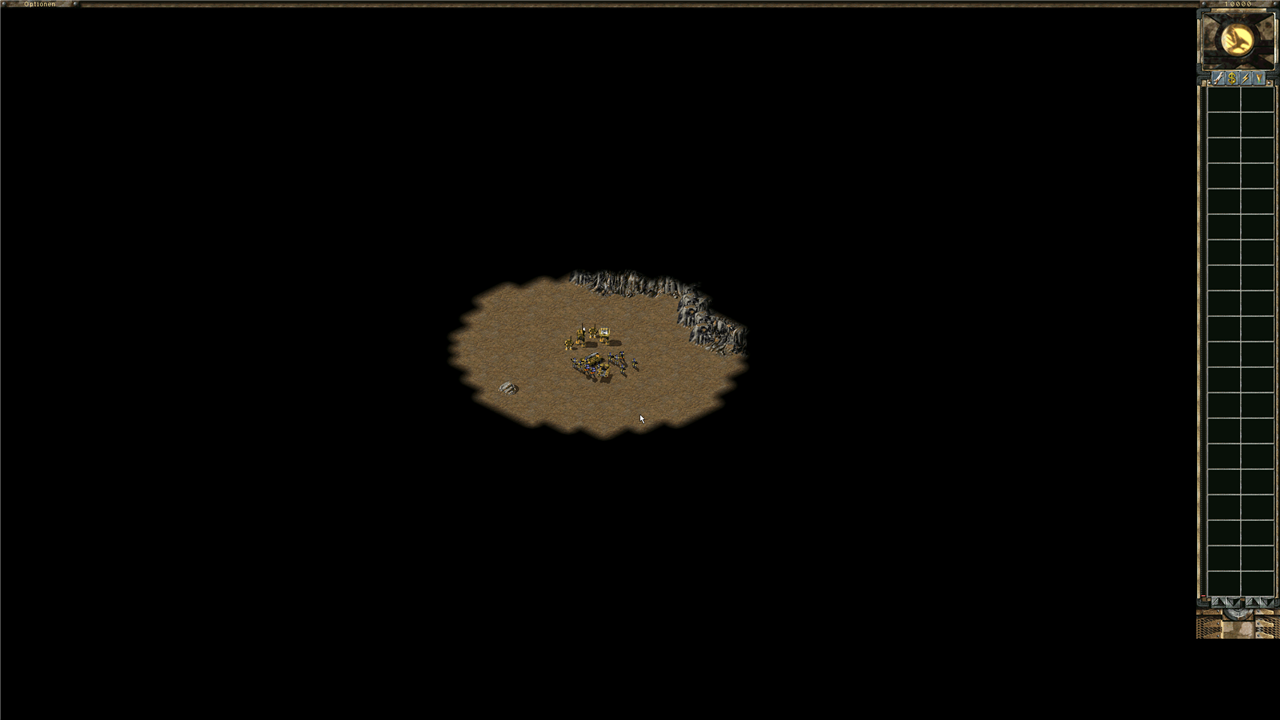
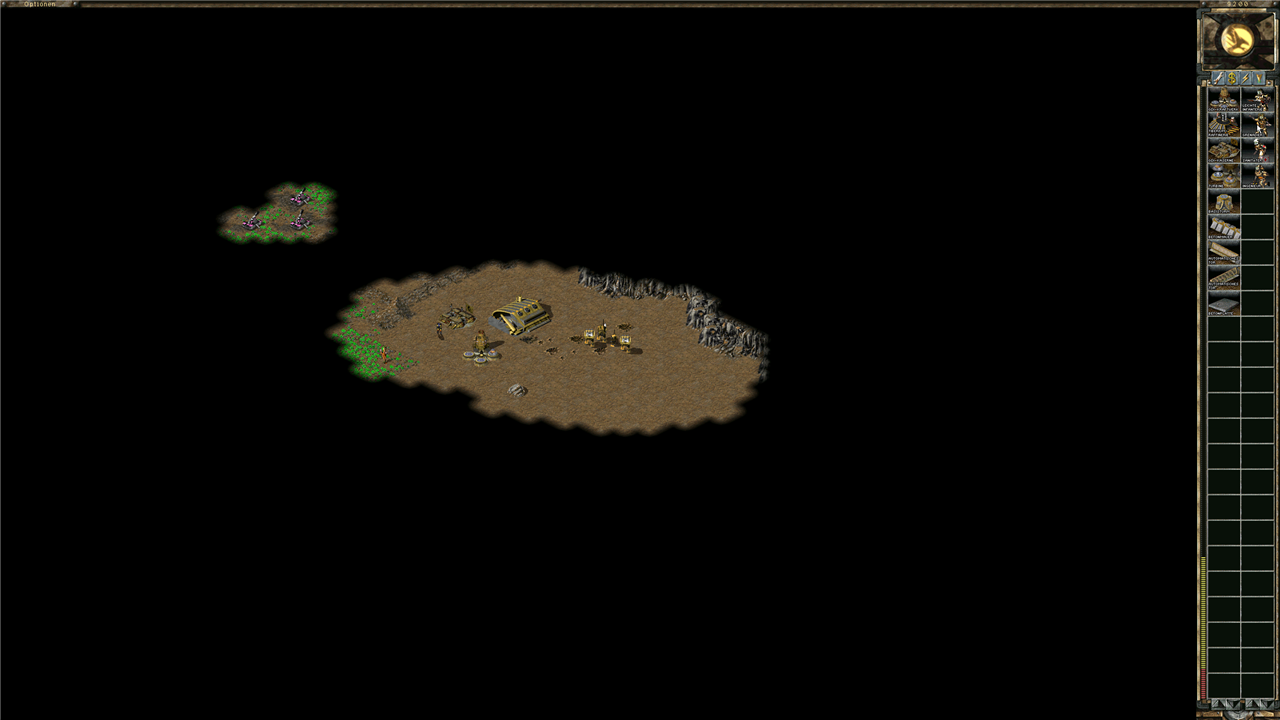
1.1.0: full-height sidebar, game speed option, mission timing fixed
- Sidebar button array moved to new memory with 40 rows per column
  (11 address and 7 stride patches); the sidebar now fills the screen.
- New option Game speed (60/30/20 fps or unlimited); the previous
  value is written back to SUN.INI when the game ends.
- Missions: repeating triggers end in 0, waves and time limits use game
  time, survival/defense run on the countdown, win/lose on event 11.
- Docs: findings on the sidebar relocation and trigger timing.

diff --git a/src/TSMap.cs b/src/TSMap.cs
@@ -521,7 +521,9 @@ namespace TSExt
         public string AddTriggerFlags(string name, string house, int repeat, string[] events, string[] actions, bool disabled, bool easy, bool normal, bool hard)
         {
             string id = NewId();
-            trig.Set(id, string.Format("{0},<none>,{1},{2},{3},{4},{5},{6}", house, name, disabled ? 1 : 0, easy ? 1 : 0, normal ? 1 : 0, hard ? 1 : 0, repeat == 2 ? 1 : 0));
+            // The last field stays 0 like in every official map: repetition comes from the tag (2). A 1 here made the
+            // game fire a repeating trigger again and again (checked in the game: dozens of attack waves in two minutes).
+            trig.Set(id, string.Format("{0},<none>,{1},{2},{3},{4},{5},0", house, name, disabled ? 1 : 0, easy ? 1 : 0, normal ? 1 : 0, hard ? 1 : 0));
             ev.Set(id, events.Length + "," + string.Join(",", events));
             act.Set(id, actions.Length + "," + string.Join(",", actions));
             string tagId = NewId();

diff --git a/dev/ghidra_scripts/TSRangeRefs.java b/dev/ghidra_scripts/TSRangeRefs.java
@@ -36,8 +36,9 @@ public class TSRangeRefs extends GhidraScript {
             for (Map.Entry<Address, List<String>> e : byTarget.entrySet()) {
                 pw.printf("%s (%d refs)%n", e.getKey(), e.getValue().size());
                 int n = 0;
-                for (String s : e.getValue()) { if (n++ < 6) pw.println("    " + s); }
+                for (String s : e.getValue()) { if (n++ < 400) pw.println("    " + s); }
             }
         }
     }
 }
+

diff --git a/README.de.md b/README.de.md
@@ -1,10 +1,10 @@
-# Tiberian Sun – Erweiterungen
+# Tiberian Sun – Erweiterungen
 
 *[English version](README.md)*
 
 Ein Fan-Projekt für **Command & Conquer Tiberian Sun und Feuersturm** (Steam, Game.exe 2.03 TUC): riesige
 Zufallswelten, scharfe Grafik in der nativen Auflösung deines Bildschirms, 15 neue Missionen in zwei Kampagnen und
-fünf Herausforderungen sowie 15 Optionen für die Spielregeln, alles in einem Startfenster.
+fünf Herausforderungen sowie 16 Optionen für Regeln, Welt und Anzeige, alles in einem Startfenster.
 
 Keine Originaldatei des Spiels wird verändert. Die Erweiterungen arbeiten über Dateien, die das Spiel zusätzlich zu
 seinen eigenen liest (ein zusätzliches Archiv und neue Missionsdateien), und über den Arbeitsspeicher des laufenden
@@ -12,7 +12,7 @@ Spiels. Wenn das Spiel endet, ist alles wieder wie vorher; ein Start über Steam
 Einzelspiel.
 
 <p align="center">
-  <img src="docs/images/giant-random-map.png" alt="Eine Zufallskarte mit 225 × 225 Feldern in 2560 × 1440" width="80%">
+  <img src="docs/images/giant-random-map.png" alt="Eine riesige Zufallskarte in 2560 × 1440 mit der Seitenleiste über die ganze Höhe" width="80%">
 </p>
 
 ## Was es kann
@@ -20,7 +20,8 @@ Einzelspiel.
 | Funktion | Was du bekommst |
 |---|---|
 | **Riesige Zufallswelten** | Der eingebaute Zufallskarten-Generator des Spiels macht Karten bis **235 × 235 Felder** (Original: höchstens 175 × 175, und das nur mit 8 Spielern; mit 4 Spielern 128 × 128) – mit Flüssen, Klippen, Tiberium, Wäldern und Ruinen. |
-| **Scharfe Grafik** | Das Spiel läuft in der nativen Auflösung deines Bildschirms (z. B. 2560 × 1440) – keine verzerrten, unscharfen Pixel mehr, und du siehst viel mehr vom Schlachtfeld. Möglich macht das ein Fix im Code der Seitenleiste (siehe unten). |
+| **Scharfe Grafik** | Das Spiel läuft in der nativen Auflösung deines Bildschirms (z. B. 2560 × 1440) – keine verzerrten, unscharfen Pixel mehr, und du siehst viel mehr vom Schlachtfeld. Die Seitenleiste reicht über die ganze Bildschirmhöhe, mit bis zu 40 Bauzeilen (Original: 20 – mehr Zeilen liessen das Spiel abstürzen). |
+| **Spieltempo** | 60, 30 oder 20 Bilder pro Sekunde, oder unbegrenzt. Auf „unbegrenzt“ läuft die Steam-Version mit 120 Bildern/s – achtmal so schnell wie das klassische Tempo. |
 | **Neue Kampagnen** | *Operation Morgenröte* (GDI, 5 Missionen) und *Kanes Erbe* (Nod, 5 Missionen): Eroberung, Überleben, Kommando, Verteidigung und Wirtschaft, mit Gegnerbasen, die wie die Gefechts-KI bauen und angreifen, und Angriffswellen, die mit der Zeit und dem Schwierigkeitsgrad wachsen. |
 | **Herausforderungen** | Die Flut (30 Min überleben), Alle gegen einen (5 Gegner), Blitzkrieg (25 Min), Wirtschaftswunder (100 000 Credits), Eiswüste (Riesenkarte, 6 Gegner). |
 | **Regel-Optionen** | Baukosten, Bautempo, Tiberium-Wert und -Wachstum, Sammler-Ladung, Kraftwerksleistung, Beförderungen, Superwaffen-Ladezeit, Lebenspunkte, erweitertes Arsenal (Umagon, Chamäleon-Spion, Helden bis 3-mal), starke oder brutale Computergegner, Meteoriten und Viszeroiden, Nebel des Krieges. |
@@ -66,10 +67,14 @@ Messungen im Spiel stehen in [docs/FINDINGS.md](docs/FINDINGS.md).
 - **Zufallskarten-Grösse** – der Generator berechnet die Kartengrösse aus vier Tabellen (je 7 Einträge, für 2–8
   Spieler). Das Werkzeug schreibt grössere Werte in diese Tabellen im Speicher des laufenden Spiels (vorher geprüft:
   nur wenn dort die Originalwerte stehen).
-- **Native Auflösung** – die Seitenleiste hat Platz für 2 × 20 Bau-Schaltflächen. Ab etwa 1214 Pixeln Bildschirmhöhe
-  rechnet das Spiel mit mehr Zeilen, schreibt über das Feld hinaus und stürzt beim Start eines Gefechts ab. Das
-  Werkzeug hängt sich an die zwei Stellen, die die Höhe der Seitenleiste setzen, und begrenzt sie auf 20 Zeilen.
-  Dann funktioniert jede Auflösung.
+- **Native Auflösung und Seitenleiste über die ganze Höhe** – die Seitenleiste hat Platz für 2 × 20
+  Bau-Schaltflächen. Ab etwa 1214 Pixeln Bildschirmhöhe rechnet das Spiel mit mehr Zeilen, schreibt über das Feld
+  hinaus und stürzt beim Start eines Gefechts ab. Das Werkzeug verlegt das Feld in neuen Speicher mit Platz für
+  2 × 40 Zeilen: Es schreibt die 11 Befehle um, die seine Adresse enthalten, verdoppelt den Spaltenabstand an den
+  7 Stellen, die „Zeile + Spalte × 20“ rechnen, und begrenzt die Höhe der Seitenleiste auf 40 Zeilen. Dann
+  funktioniert jede Auflösung bis 2160 Pixel Höhe, mit einer Seitenleiste von oben bis unten.
+- **Zeiten in Missionen** – Wellen, Countdowns und Zeitlimits laufen in Spielzeit (Spielbilder ÷ 15), wie in den
+  Originalmissionen, und folgen damit dem Spieltempo.
 - **Regel-Optionen** – eine geänderte Kopie deiner eigenen `FIRESTRM.INI` kommt in das Archiv `EXPAND99.MIX`. Das
   Spiel sucht in Archiven vor losen Dateien und lädt `EXPAND99` vor `EXPAND01` von Feuersturm, also gewinnt die
   Kopie. Das Archiv wird entfernt, wenn das Spiel endet.
@@ -88,7 +93,8 @@ gelesen.
   und Kampagnen funktionieren trotzdem.
 - Die Regel-Optionen gelten für Feuersturm-Spiele: Gefechte im Feuersturm-Modus, Feuersturm-Missionen und die neuen
   Kampagnen.
-- Bei einem sehr hohen Bildschirm endet die Seitenleiste nach 20 Zeilen; der Bereich darunter bleibt schwarz.
+- Missionen zählen in Spielzeit: Bei 120 Bildern/s dauert ein „20-Minuten“-Countdown 2,5 echte Minuten. Für ein
+  ruhigeres Tempo unter *Spieltempo* 60 oder 30 Bilder/s wählen.
 - Riesenkarten brauchen mehr Rechenleistung; mit 8 Spielern auf 235 × 235 kann das Spiel gegen Ende langsamer werden.
 - Nur für das Einzelspiel. Online- und LAN-Spiele bleiben unberührt, wenn du das Spiel ohne dieses Werkzeug startest.
 

diff --git a/README.md b/README.md
@@ -1,17 +1,17 @@
-# Tiberian Sun – Extensions
+# Tiberian Sun – Extensions
 
 *[Deutsche Version](README.de.md)*
 
 A fan project for **Command & Conquer Tiberian Sun and Firestorm** (Steam, Game.exe 2.03 TUC): huge random worlds,
 sharp graphics in your screen's native resolution, 15 new missions in two campaigns and five challenges, and
-15 options for the rules of the game, all in one start window.
+16 options for rules, world and display, all in one start window.
 
 No original game file is changed. The extensions work through files the game reads in addition to its own (an extra
 archive and new mission files) and through the memory of the running game. When the game ends, everything is as
 before; a game started from Steam is always the original. Single player only.
 
 <p align="center">
-  <img src="docs/images/giant-random-map.png" alt="A 225 x 225 random map in 2560 x 1440" width="80%">
+  <img src="docs/images/giant-random-map.png" alt="A huge random map in 2560 x 1440 with the full-height sidebar" width="80%">
 </p>
 
 ## What it does
@@ -19,7 +19,8 @@ before; a game started from Steam is always the original. Single player only.
 | Feature | What you get |
 |---|---|
 | **Huge random worlds** | The game's own random map generator makes maps up to **235 × 235 cells** (original: at most 175 × 175, and only with 8 players; 128 × 128 with 4 players) – with rivers, cliffs, tiberium, forests and ruins. |
-| **Sharp graphics** | The game runs in your screen's native resolution (e.g. 2560 × 1440) – no more stretched, blurry pixels, and you see much more of the battlefield. A fix in the game's sidebar code makes this possible (see below). |
+| **Sharp graphics** | The game runs in your screen's native resolution (e.g. 2560 × 1440) – no more stretched, blurry pixels, and you see much more of the battlefield. The sidebar fills the whole screen height with up to 40 build rows (original: 20 – more rows crashed the game). |
+| **Game speed** | 60, 30 or 20 frames per second, or unlimited. On "unlimited" the Steam version runs at 120 frames/s – eight times the classic speed. |
 | **New campaigns** | *Operation Dawn* (GDI, 5 missions) and *Kane's Legacy* (Nod, 5 missions): conquest, survival, commando, defense and economy missions with enemy bases that build and attack like the skirmish AI, attack waves that grow with time and difficulty. |
 | **Challenges** | The Flood (survive 30 min), All Against One (5 enemies), Blitz (25 min), Economic Miracle (100,000 credits), Ice Desert (huge map, 6 enemies). |
 | **Rules options** | Build costs, build speed, tiberium value and growth, harvester load, power output, promotions, super weapon charge time, unit hit points, extended arsenal (Umagon, Chameleon spy, heroes up to 3 times), stronger or brutal computer opponents, meteorites and visceroids, fog of war. |
@@ -65,9 +66,13 @@ in-game measurements are in [docs/FINDINGS.md](docs/FINDINGS.md).
 - **Random map size** – the generator computes the map size from four tables (7 entries each, for 2–8 players).
   The tool writes larger values into these tables in the memory of the running game (checked first: only if the
   original values are there).
-- **Native resolution** – the sidebar has room for 2 × 20 build buttons. At more than about 1214 pixels screen height
-  the game computes more rows, overflows the array and crashes when a battle starts. The tool hooks the two places
-  that set the sidebar height and limits it to 20 rows. Then any resolution works.
+- **Native resolution and full-height sidebar** – the sidebar has room for 2 × 20 build buttons. At more than about
+  1214 pixels screen height the game computes more rows, overflows the array and crashes when a battle starts. The tool
+  moves the button array to new memory with room for 2 × 40 rows: it rewrites the 11 instructions that hold its
+  address, doubles the column stride in the 7 places that compute "row + column × 20", and limits the sidebar
+  height to 40 rows. Then any resolution up to 2160 pixels height works with a sidebar from top to bottom.
+- **Mission timing** – waves, countdowns and time limits use game time (game frames ÷ 15), like the original
+  missions, so they follow the game speed.
 - **Rules options** – a changed copy of your own `FIRESTRM.INI` goes into the archive `EXPAND99.MIX`. The game searches
   archives before loose files and loads `EXPAND99` before Firestorm's `EXPAND01`, so the copy wins. The archive is
   removed when the game ends.
@@ -83,7 +88,8 @@ Nothing of the game is in this repository – only code and documentation. The g
 - Only for the Steam version with `Game.exe` 2.03 TUC (SHA-256 `58CFDBA4…AE17DB3`). With another version the memory
   patches are skipped (the tool then stays at a resolution that works without them); options and campaigns still work.
 - The rules options apply to Firestorm games: skirmish in Firestorm mode, Firestorm missions and the new campaigns.
-- With a very tall screen, the sidebar ends after 20 rows; the area below it stays black.
+- Missions count in game time: at 120 frames/s a "20 minute" countdown takes 2.5 real minutes. Pick 60 or 30
+  frames/s under *Game speed* for a calmer pace.
 - Huge maps need more computing power; with 8 players on 235 × 235 the game can get slower late in the battle.
 - Single player only. Online and LAN games are not touched when you start the game without this tool.
 

diff --git a/docs/FINDINGS.md b/docs/FINDINGS.md
@@ -114,6 +114,40 @@ Firestorm mission.
   46 + 20 × 51 = 1066. Without the fix the highest safe screen is 148 + 1066 = 1214 pixels.
 - Checked: 2560 × 1440 skirmish on a 225 × 225 map and campaign missions run with the fix.
 
+### Full-height sidebar (1.1)
+
+- A byte scan of the whole code for addresses inside the array (0x80B950 … 0x80C170) finds exactly 12 places in
+  the sidebar code: the static initializer at 0x5F2294 (runs before any patch) and 11 runtime places –
+  displacements at 0x5F407C, 0x5F4143, 0x5F43DC, 0x5F452A, 0x5F454A, 0x5F4615 (entry base, `LEA r,[idx*4+0x80B950]`),
+  0x5F63BD (`LEA EBP,[ESI+0x80B950]`) and 0x5F63D6 / 0x5F63DC / 0x5F63EF / 0x5F63FF (fields +0x10, +0xC, +0x18, +0x14).
+  0x5F45FE … 0x5F4619 is code Ghidra did not mark as a function. Other hits elsewhere are unaligned byte coincidences.
+- The index is `row + column × 20`, computed as `LEA r1,[col+col*4]; LEA r2,[row+r1*4]`. Changing the SIB scale of
+  the second LEA from 4 to 8 makes it `row + column × 40`: 0x5F406D, 0x5F4134, 0x5F4520 (0x97 → 0xD7),
+  0x5F43D2, 0x5F453B (0x87 → 0xC7), 0x5F4606 (0x96 → 0xD6). The setup loop of FUN_005F6080 adds 20 per column at
+  0x5F6450 (`ADD EDX,0x14` → `0x28`).
+- The patch allocates 80 entries, fills them with a copy of the (still unused) first button, rewrites the 11
+  displacements and the 7 strides, and raises the height limit to 46 + 40 × 51 = 2086 pixels.
+- Checked at 2560 × 1440: 24 rows per column, buttons of both columns at the right places (column 1 x = 2416, column 2
+  x = 2484, rows 51 pixels apart), linked into the gadget list; a building ordered from column 1 is built.
+
+## Trigger timing (1.1)
+
+- The game logic runs one step per frame. Frames per second by `[Options] GameSpeed` in SUN.INI, measured with the
+  frame counter at 0x7E4924: 0 = unlimited (120 with the Steam DDrawCompat limit `FpsLimiter = msgloop(120)`),
+  1 = 60, 3 = 20, 4 = 15.
+- Event 13 "Elapsed time", the mission timer (actions 27/25/26, event 14) count **game time** (frames ÷ 15):
+  a repeating trigger with 13 = 30 spawned a unit about every 3.7 s at 120 frames/s; a countdown set to 1200 ran
+  from 18:32 to 10:31 in one real minute.
+- Event 47 "Elapsed scenario time" uses the scenario's ElapsedTimer (`Scen+0x610`, started / `+0x618` accumulated),
+  driven by the 60 Hz system timer (FUN_0060AB10), i.e. real time.
+- Repeating triggers: tag repeat flag 2, and the last field of the trigger line 0 – every official map writes 0 there.
+- Version 1.0 mixed both (waves on event 13 with values meant as real seconds, tiers and survival on event 47); at
+  120 frames/s the waves came every ~27 s and overran the base in two minutes. 1.1 uses game time everywhere:
+  waves on event 13, wave tiers via locals set by one-shot event-13 triggers, survival / defense / time limit on the
+  countdown (event 14) together with a local that is set when the countdown starts.
+- Checked in the game: "The Long Night" (survival, 20 game minutes) showed the countdown and ended with the score
+  screen; mission 1 held two real minutes without anyone playing.
+
 ## Display
 
 The Steam release ships DDrawCompat 0.5.4 (`ddraw.dll`, `DDrawCompat.ini`: point filter, FPS limit 120). The default

diff --git a/CHANGELOG.md b/CHANGELOG.md
@@ -1,5 +1,19 @@
 # Changelog
 
+## 1.1.0 – 2026-11-16
+
+- Full-height sidebar: at high resolutions the sidebar now reaches from top to bottom with up to 40 build rows per
+  column instead of ending after 20 (button array moved to new memory, 11 addresses and 7 index computations
+  patched).
+- New option *Game speed*: 60, 30 or 20 frames per second, or unlimited (120 with the Steam version).
+  Presets: *Everything bigger* 60, *Relaxed* 30. Like the resolution, the previous speed is written back to
+  SUN.INI when the game ends.
+- Missions fixed: attack waves came far too often (repeating triggers had a 1 in the last field, and waves were timed
+  in real seconds while the game counts game time) and overran the player's base within two minutes. All mission
+  times now use game time like the original missions; survival, defense and time limits run on the on-screen
+  countdown. Win and lose conditions use "destroyed all" like the original missions.
+- Units placed by the missions never get an empty tag (an empty tag made the path finder of a harvester hang).
+
 ## 1.0.0 – 2026-11-15
 
 First release.
